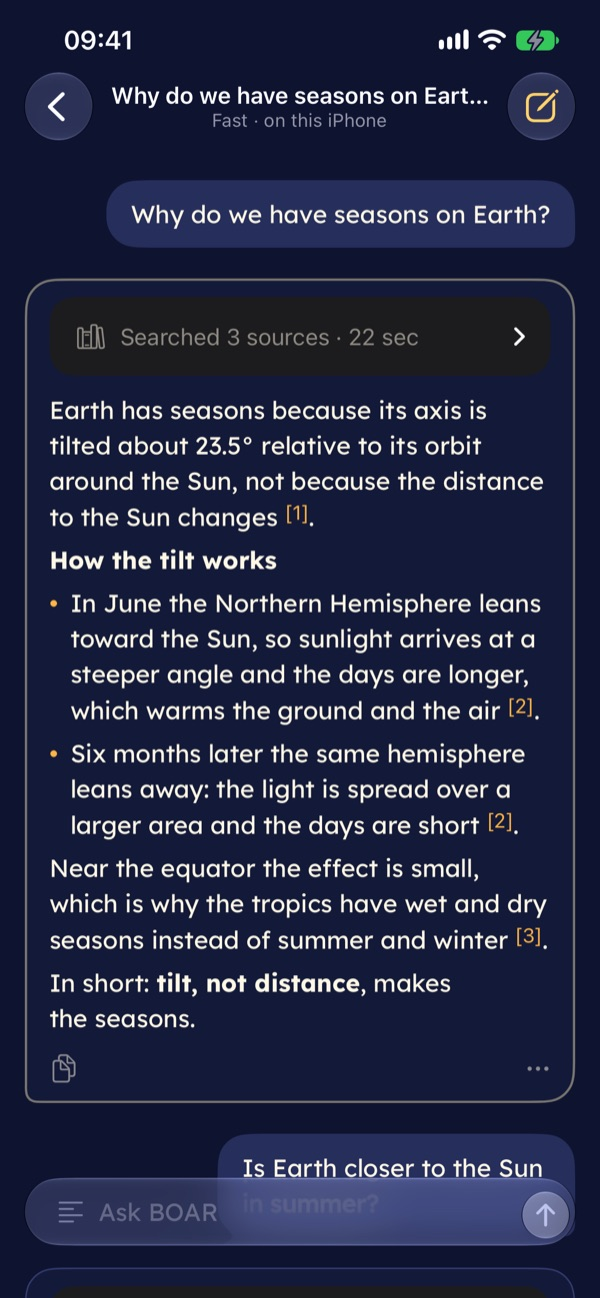
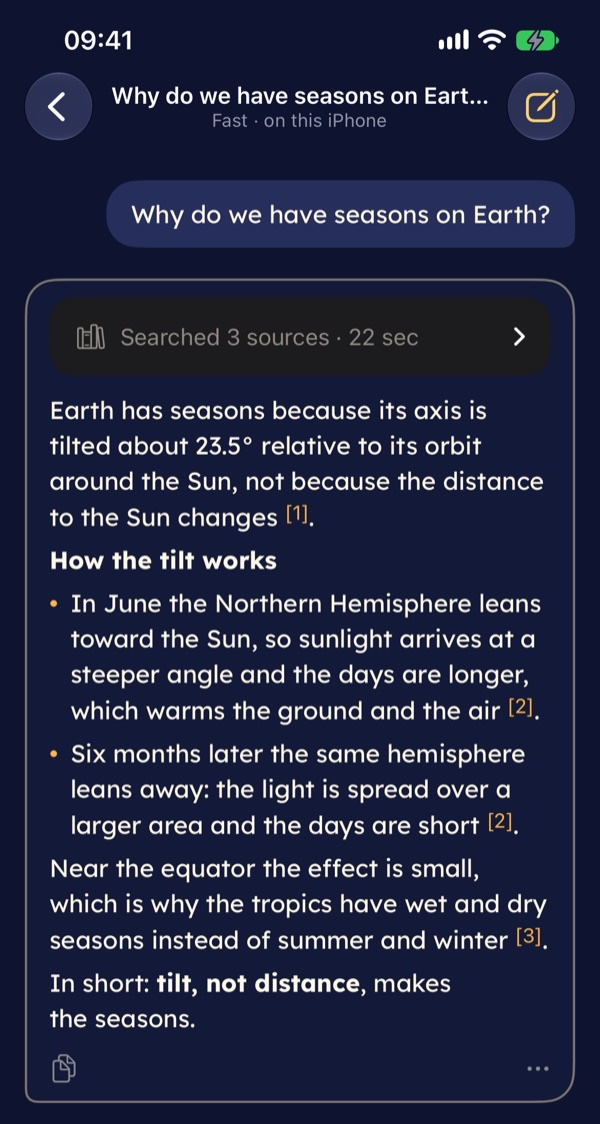
docs(readme): fix the review's claims, data licenses and build steps
The receipt shows text read, not memory. The remote server can be any
server, the default model depends on the device's memory, Liquid Glass
is iOS 26 only, and the Mac locks with Touch ID. The license section
lists the bundled data and their licenses (Wikipedia CC BY-SA, GeoNames
CC BY, Wikidata CC0). Building from outside the team: the Android clone's
folder name and pinned commit, the team in Local.xcconfig, and a bundle
ID of your own. The chat screenshot stops above the second question,
which showed through the composer.

diff --git a/README.md b/README.md
@@ -23,11 +23,11 @@
 </p>
 
 <p align="center">
-  <img src="./docs/readme/setup-dark.jpg" width="31%" alt="Setup: Knowledge that travels with you" />
+  <img src="./docs/readme/setup-dark.jpg" width="31%" align="top" alt="Setup: Knowledge that travels with you" />
   &nbsp;
-  <img src="./docs/readme/chat-dark.jpg" width="31%" alt="An answer with its sources, in the dark theme" />
+  <img src="./docs/readme/chat-dark.jpg" width="31%" align="top" alt="An answer with its sources, in the dark theme" />
   &nbsp;
-  <img src="./docs/readme/setup-knowledge-light.jpg" width="31%" alt="Choosing the library, in the light theme" />
+  <img src="./docs/readme/setup-knowledge-light.jpg" width="31%" align="top" alt="Choosing the library, in the light theme" />
 </p>
 
 ## Airplane mode on. BOAR still answers.
@@ -40,21 +40,22 @@ your phone, and every answer lists the articles it used. Tap a citation and you 
   sources work in airplane mode.
 - **No server receives your questions.** No account, no analytics, no tracking. The App Store privacy
   manifest declares no collected data, and chats and documents stay out of iCloud backups. The one
-  exception is opt-in: you can point BOAR at your own computer to write the answers.
+  exception is opt-in: you can point BOAR at a server you choose, such as your own computer, to write
+  the answers.
 - **It shows its sources.** Small models still make mistakes, so BOAR answers from a library and shows
   the shelf it took each answer from. Check it when it matters.
 - **It's measured, not hyped.** Every answer keeps a receipt: the model, the time to the first word,
-  the speed and the memory. On an iPhone 14 Pro, Qwen3 1.7B wrote 14 to 19 tokens a second
+  the speed and how much text it read. On an iPhone 14 Pro, Qwen3 1.7B wrote 14 to 19 tokens a second
   (2026-11-05).
 - **It's yours.** Import your own documents and ask about them. Pick another model. Lock your chats
-  with Face ID.
+  with Face ID (Touch ID on the Mac).
 
 ## The same BOAR as on Android
 
 [BOAR](https://github.com/rferrari/boar-app) started as an Android app, and Android leads. This repo is
 the native iPhone and Mac app: SwiftUI on top of a Swift port of the Android engine. Someone holding
-both phones should see the same app. An iPhone user still gets an iPhone: Liquid Glass, Dynamic Type,
-VoiceOver, Face ID, Siri and the share sheet.
+both phones should see the same app. An iPhone user still gets an iPhone: Dynamic Type, VoiceOver, Face ID,
+Siri, the share sheet, and Liquid Glass on iOS 26.
 
 The port is held to Android by tests, not by eye. The Kotlin engine's golden fixtures live in
 [`Fixtures/golden/`](Fixtures/golden), and every Kotlin golden test has a Swift test that reads the same
@@ -66,9 +67,9 @@ What's in the app today:
 |---|---|
 | **Answers** | Retrieval from the on-device library, answer styles, Deep Research with follow-ups, citations you can open |
 | **Your documents** | PDF, text, Markdown, CSV, JSON and photos of pages (read on the phone with Vision), then "ask about them" |
-| **Models** | llama.cpp with GGUF models (Qwen3 1.7B by default), the Hugging Face browser, and Apple's on-device model on iPhones with Apple Intelligence |
+| **Models** | llama.cpp with GGUF models (Qwen3 1.7B or 4B, picked from the device's memory), the Hugging Face browser, and Apple's on-device model on iPhones with Apple Intelligence |
 | **Boar Labs** | Calculator, Facts, Distance, Cohazard, Guard, Polyglot, Lunar, Daily Quiz, Nomad, Vitals, Press ([docs/labs-ios.md](docs/labs-ios.md)) |
-| **Apple extras** | Face ID lock, "Ask BOAR" in Siri and Shortcuts, chats in Spotlight, dictation on iOS 26 |
+| **Apple extras** | Face ID or Touch ID lock, "Ask BOAR" in Siri and Shortcuts, chats in Spotlight, dictation on iOS 26 |
 | **Mac** | The same sources built natively for macOS 26: one window, menus and shortcuts, Metal |
 
 ## Status
@@ -82,10 +83,13 @@ Want to try it before then? Build it from source.
 ## Build from source
 
 You need a Mac with Xcode 27, [XcodeGen](https://github.com/yonaskolb/XcodeGen) 2.46.0, and a clone of
-the Android repo next to this one (the engine tests read its assets).
+the Android repo named `boar-app`, next to this one. The engine tests read its `assets/`, so check out
+the commit pinned in `Fixtures/SOURCE_SHA`: on a newer Android commit the golden tests can fail.
 
 ```bash
+git clone https://github.com/rferrari/boar-app.git
 git clone https://github.com/sopa-agency/boar-ios-app.git
+git -C boar-app checkout "$(cat boar-ios-app/Fixtures/SOURCE_SHA)"
 cd boar-ios-app
 bash scripts/fetch-llama.sh          # the pinned llama.cpp XCFramework, into Vendor/
 swift test                           # the engine and its golden tests, on the Mac
@@ -94,8 +98,15 @@ xcodebuild -project Boar.xcodeproj -scheme Boar -destination 'generic/platform=i
   CODE_SIGNING_ALLOWED=NO build      # the iPhone app
 ```
 
-To run it on your own iPhone, open `Boar.xcodeproj` in Xcode, pick your team under Signing, and press
-Run. Every pull request runs the same tests and both builds on GitHub Actions.
+To run it on your own iPhone, sign it with your own Apple team:
+
+1. Put your team in a `Local.xcconfig` at the repo root (git-ignored): `DEVELOPMENT_TEAM = ABCDE12345`.
+   Don't pick the team in Xcode: `Boar.xcodeproj` is generated, so the next `xcodegen generate` drops it.
+2. Your team can't sign BOAR's bundle ID, so change `team.sopa.boar.native` in `project.yml` to one of
+   yours, such as `com.example.boar`, and don't commit that change.
+3. Run `xcodegen generate`, open `Boar.xcodeproj` and press Run.
+
+Every pull request runs the same tests and both builds on GitHub Actions.
 
 Exact commands, the repo layout and the rules for contributors: [AGENTS.md](AGENTS.md).
 
@@ -116,12 +127,19 @@ A change that should also happen on Android belongs in
 [rferrari/boar-app](https://github.com/rferrari/boar-app) first.
 
 Built on [llama.cpp](https://github.com/ggml-org/llama.cpp). The library is Wikipedia article
-introductions; the brand fonts are Baloo 2 and Lexend, under the SIL Open Font License.
+introductions; the brand fonts are Baloo 2 and Lexend.
 
 ## License
 
-MIT, like the Android app: see [LICENSE](LICENSE). Third-party code, models and fonts keep their own
-licenses (llama.cpp is MIT; Baloo 2 and Lexend are SIL OFL 1.1, with their license files next to the
-fonts).
+The code is MIT, like the Android app: see [LICENSE](LICENSE). Everything else keeps its own license:
+
+- **llama.cpp:** MIT.
+- **Baloo 2 and Lexend:** SIL Open Font License 1.1, with their license files next to the fonts.
+- **Models:** each model's license is in the app's catalog.
+- **Wikipedia text** (`App/Resources/Data/corpus.json` and the downloaded libraries): CC BY-SA 4.0,
+  from [Wikipedia](https://www.wikipedia.org).
+- **Boar Distance's city table** (`lab_distance_world_cities_v1.json`): CC BY 4.0,
+  [GeoNames](https://www.geonames.org) cities15000.
+- **Boar Facts' fact table** (`lab_facts_facts_v1.json`): CC0 1.0, [Wikidata](https://www.wikidata.org).
 
 <p align="center"><sub>Born from <a href="https://poidh.xyz/mainnet/bounty/31">poidh bounty #31</a>, "Best Offline AI Research App". Growing in public. 🐗</sub></p>
